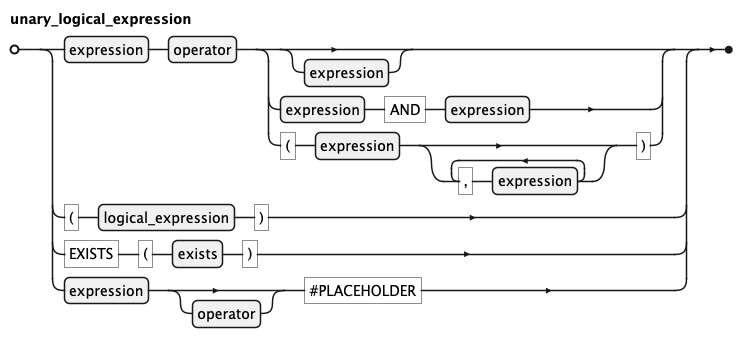
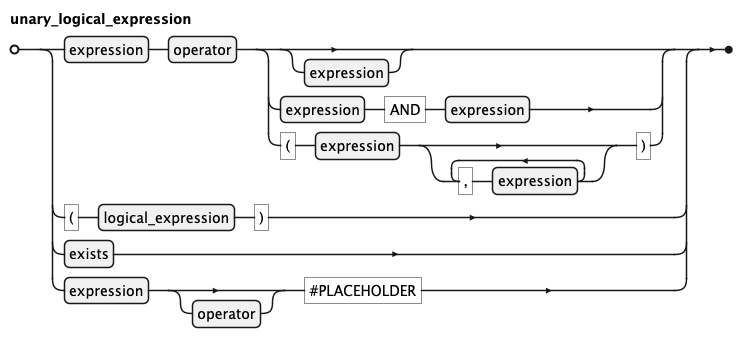
docs kql_ebnf, review

Changed region(s): [[0.186, 0.6544, 0.341, 0.779], [0.062, 0.6544, 0.155, 0.779]]

diff --git a/core/src/main/java/ai/koryki/kql/KQLFormatter.java b/core/src/main/java/ai/koryki/kql/KQLFormatter.java
@@ -25,9 +25,7 @@ import ai.koryki.iql.Walker;
 import ai.koryki.iql.rules.Math;
 import ai.koryki.antlr.KorykiaiException;
 import ai.koryki.iql.query.*;
-import org.antlr.v4.runtime.tree.ParseTree;
 import org.antlr.v4.runtime.tree.ParseTreeWalker;
-import org.antlr.v4.runtime.tree.TerminalNode;
 
 import java.util.Collections;
 import java.util.List;
@@ -453,16 +451,16 @@ public class KQLFormatter {
 
             if (window.frame() != null) {
                 b.append(" ROWS BETWEEN ");
-                b.append(toLimit(window.frame().lower));
+                b.append(toFrameBound(window.frame().lower));
                 b.append(" AND ");
-                b.append(toLimit(window.frame().upper));
+                b.append(toFrameBound(window.frame().upper));
             }
 
             b.append(")");
             return b.toString();
         }
 
-        protected String toLimit(KQLParser.LimitContext limit) {
+        protected String toFrameBound(KQLParser.Frame_boundContext limit) {
             StringBuilder b = new StringBuilder();
             if (limit.INT() != null) {
                 b.append(" " + limit.INT().getText());

diff --git a/core/src/main/java/ai/koryki/kql/KQLQueryMapper.java b/core/src/main/java/ai/koryki/kql/KQLQueryMapper.java
@@ -468,14 +468,14 @@ public class KQLQueryMapper {
             bean.setOrder(toExpression(window.orderex));
         }
         if (window.frame() != null) {
-            bean.setLower(toLimit(window.frame().lower));
-            bean.setUpper(toLimit(window.frame().upper));
+            bean.setLower(toFrameBound(window.frame().lower));
+            bean.setUpper(toFrameBound(window.frame().upper));
         }
 
         return bean;
     }
 
-    public Limit toLimit(KQLParser.LimitContext limit) {
+    public Limit toFrameBound(KQLParser.Frame_boundContext limit) {
 
         if (limit.INT() != null) {
             int i = Integer.parseInt(limit.INT().getText());

diff --git a/docs/KQL_EBNF.md b/docs/KQL_EBNF.md
@@ -106,26 +106,25 @@ to generate equivalent SQL.
 
 ## KQL Find Rule
 
-  ![EBNF Railroad diagram for select_find rule](kql/select_find.png)
+![EBNF Railroad diagram for_find rule](kql/find.png)
 
 `FIND` introduces the graph of sources the query operates on. 
 It requires exactly one primary `source`, optionally extended by a 
 comma-separated list of linked sources.
 
 
-## KQL Filter Clause Rule
+## KQL Filter Rule
 
-![EBNF Railroad diagram for filter_clause rule](kql/filter_clause.png)
+![EBNF Railroad diagram for filter rule](kql/filter.png)
 
 The `FILTER` clause narrows the result set by applying a logical predicate to
-the source rows matched by `FIND`. It also appears in `exists`.  It accepts any `logical_expression`,
-including `AND`/`OR`/`NOT` combinations, comparisons,
-and `EXISTS` sub-queries.
+the source rows matched by source-graph in `find`rule and `exists`rule.
+It accepts any `logical_expression`.
 
 
-## KQL Fetch Clause Rule
+## KQL Fetch Rule
 
-![EBNF Railroad diagram for fetch_clause rule](kql/fetch_clause.png)
+![EBNF Railroad diagram for fetch rule](kql/fetch.png)
 
 `fetch_clause` is a list of `fetch_item` entries that determines what data appears in the result —
 the columns and computed values the `select` returns.
@@ -151,6 +150,13 @@ a separate `ORDER BY` clause. When multiple items specify a sort direction, sort
 is determined by the position of each `fetch_item` in the `fetch_clause`.
 An optional integer index overrides this default
 and explicitly controls sort priority.
+
+## KQL Limit Clause Rule
+
+![EBNF Railroad diagram for limit_clause rule](kql/limit_clause.png)
+
+`LIMIT` caps the number of rows returned by a `select` to the given integer value.
+
 
 
 ## KQL Link Rule
@@ -199,29 +205,27 @@ Where the right-hand side can be:
 
 Three further alternatives exist:
 - a `logical_expression` wrapped in parentheses for explicit grouping
-- `EXISTS`, which tests whether a linked sub-graph contains at least one matching row.
+- `exists`, which tests whether a linked sub-graph contains at least one matching row.
 - a `placeholder` form, marking positions where the caller supplies values at runtime.
 
 
-
-## KQL Limit Clause Rule
-
-![EBNF Railroad diagram for limit_clause rule](kql/limit_clause.png)
-
-`LIMIT` caps the number of rows returned by a `select` to the given integer value.
 
 ## KQL Exists Rule
 
 ![EBNF Railroad diagram for exists rule](kql/exists.png)
 
-`exists` defines the correlated sub-query used inside an `EXISTS` check. Unlike `select`, it produces 
+`EXISTS` introduces the correlated sub-graph of sources the exits-check operates on.
+Unlike `select`, it produces 
 no output — only a boolean indicating whether at least one matching row exists in the sub-graph.
 
 ## KQL Existslink Rule
 
 ![EBNF Railroad diagram for existslink rule](kql/existslink.png)
 
-An `existslink` is the mandatory first link inside an `exists` clause. Unlike a regular `link`, the `from` identifier is always required and `+` is not permitted — existence checks are inherently about whether matching rows are found, making optional joins meaningless in this context.
+An `existslink` is the mandatory first link inside an `exists` clause. 
+Unlike a regular `link`, the `from` identifier is always required and `+` is not 
+permitted — existence checks are inherently about whether matching rows are found, 
+making optional joins meaningless in this context.
 
 ## KQL Source Rule
 
@@ -288,11 +292,11 @@ one or more expressions and an optional `ASC` or `DESC` direction.
 A `frame` narrows the window to a sliding subset of rows relative to the current row, defined by a lower and upper 
 `window_limit` bound. Only `ROWS` frames are supported, which count bounds by physical row offset rather than value range.
 
-## KQL Window Limit Rule
+## KQL Frame Bound Rule
 
-![EBNF Railroad diagram for window_limit rule](kql/window_limit.png)
+![EBNF Railroad diagram for frame bound rule](kql/frame_bound.png)
 
-A `window_limit` defines one boundary of a `frame`. `UNBOUNDED PRECEDING` or `UNBOUNDED FOLLOWING` extends the boundary to the 
+A `frame_bound` defines one boundary of a `frame`. `UNBOUNDED PRECEDING` or `UNBOUNDED FOLLOWING` extends the boundary to the 
 first or last row of the partition; `CURRENT ROW` sets it to the current row; and an integer offset sets it to a 
 fixed number of rows before or after the current row.
 